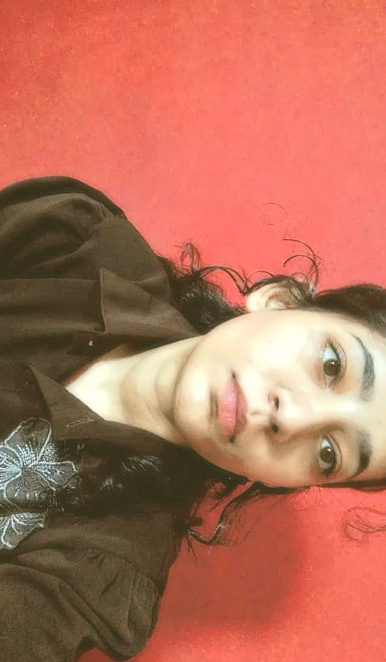
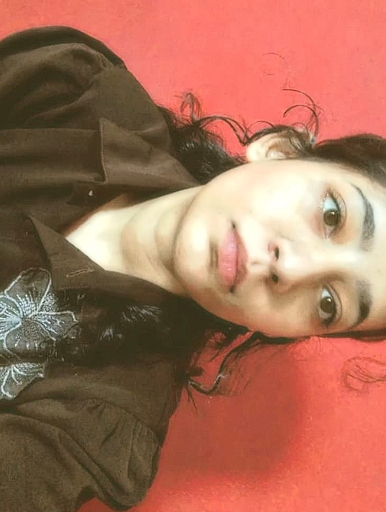
done

diff --git a/cause.html b/cause.html
@@ -71,33 +71,11 @@
                 </svg>
             </div>
 
-            <!-- Cute Mascot Avatar Header -->
+            <!-- Avatar Header with Muskan's Photo -->
             <div class="avatar-wrapper">
                 <div class="avatar-ring">
                     <div class="avatar-inner">
-                        <!-- Cute pixel/chibi mascot illustration -->
-                        <svg viewBox="0 0 120 120" class="mascot-svg">
-                            <!-- Ears -->
-                            <polygon points="26,45 36,18 52,38" fill="#f8c3d9" stroke="#7a4e65" stroke-width="3"/>
-                            <polygon points="94,45 84,18 68,38" fill="#f8c3d9" stroke="#7a4e65" stroke-width="3"/>
-                            <polygon points="30,40 38,24 48,36" fill="#fbe4ee"/>
-                            <polygon points="90,40 82,24 72,36" fill="#fbe4ee"/>
-                            <!-- Body -->
-                            <ellipse cx="60" cy="65" rx="38" ry="34" fill="#fdeef4" stroke="#7a4e65" stroke-width="3"/>
-                            <!-- Cheeks -->
-                            <circle cx="40" cy="68" r="7" fill="#ffb3c6" opacity="0.8"/>
-                            <circle cx="80" cy="68" r="7" fill="#ffb3c6" opacity="0.8"/>
-                            <!-- Eyes -->
-                            <circle cx="47" cy="58" r="4.5" fill="#4a2e35"/>
-                            <circle cx="73" cy="58" r="4.5" fill="#4a2e35"/>
-                            <circle cx="48.5" cy="56.5" r="1.5" fill="#ffffff"/>
-                            <circle cx="74.5" cy="56.5" r="1.5" fill="#ffffff"/>
-                            <!-- Happy Mouth -->
-                            <path d="M56 65 Q60 69 64 65" fill="none" stroke="#7a4e65" stroke-width="2.5" stroke-linecap="round"/>
-                            <!-- Paws -->
-                            <ellipse cx="44" cy="88" rx="8" ry="6" fill="#fdeef4" stroke="#7a4e65" stroke-width="3"/>
-                            <ellipse cx="76" cy="88" rx="8" ry="6" fill="#fdeef4" stroke="#7a4e65" stroke-width="3"/>
-                        </svg>
+                        <img src="./d3.jpg" alt="Muskan" class="avatar-img">
                     </div>
                 </div>
             </div>

diff --git a/last.html b/last.html
@@ -410,17 +410,17 @@
 
     <div class="memory-container">
         <div class="memory-card">
-            <img src="./d1.jpg" alt="Muskan" class="memory-img">
+            <img src="./d1.jpg" alt="Muskan" class="memory-img" style="object-position: center 15%;">
             <div class="memory-date">Her Smile Says It All</div>
             <div class="memory-caption">You’re truly one of the sweetest people I know, and I feel so lucky to have you in my life. ✨❤</div>
         </div>
         <div class="memory-card">
-            <img src="./d2.jpg" alt="Together Vibes" class="memory-img">
+            <img src="./d2.jpg" alt="Pretty Soul" class="memory-img" style="object-position: center center;">
             <div class="memory-date">Pretty Soul</div>
             <div class="memory-caption">May your journey ahead be filled with happiness, success, and endless smiles. 😊💕</div>
         </div>
         <div class="memory-card">
-            <img src="./d3.jpg" alt="Sorry for Late Gift" class="memory-img">
+            <img src="./d3.jpg" alt="Sorry for Late Gift" class="memory-img" style="object-position: center 15%;">
             <div class="memory-date">So Sorry For Being Late!</div>
             <div class="memory-caption">Please forgive me for the late gift! Keep being the amazing person you are—you make every moment brighter. 🥺🌸💖</div>
         </div>

diff --git a/cause.css b/cause.css
@@ -143,6 +143,20 @@ body {
     overflow: hidden;
 }
 
+.avatar-img {
+    width: 100%;
+    height: 100%;
+    object-fit: cover;
+    object-position: center 25%;
+    border-radius: 50%;
+    display: block;
+    transition: transform 0.4s ease;
+}
+
+.birthday-card:hover .avatar-img {
+    transform: scale(1.08);
+}
+
 .mascot-svg {
     width: 82px;
     height: 82px;
